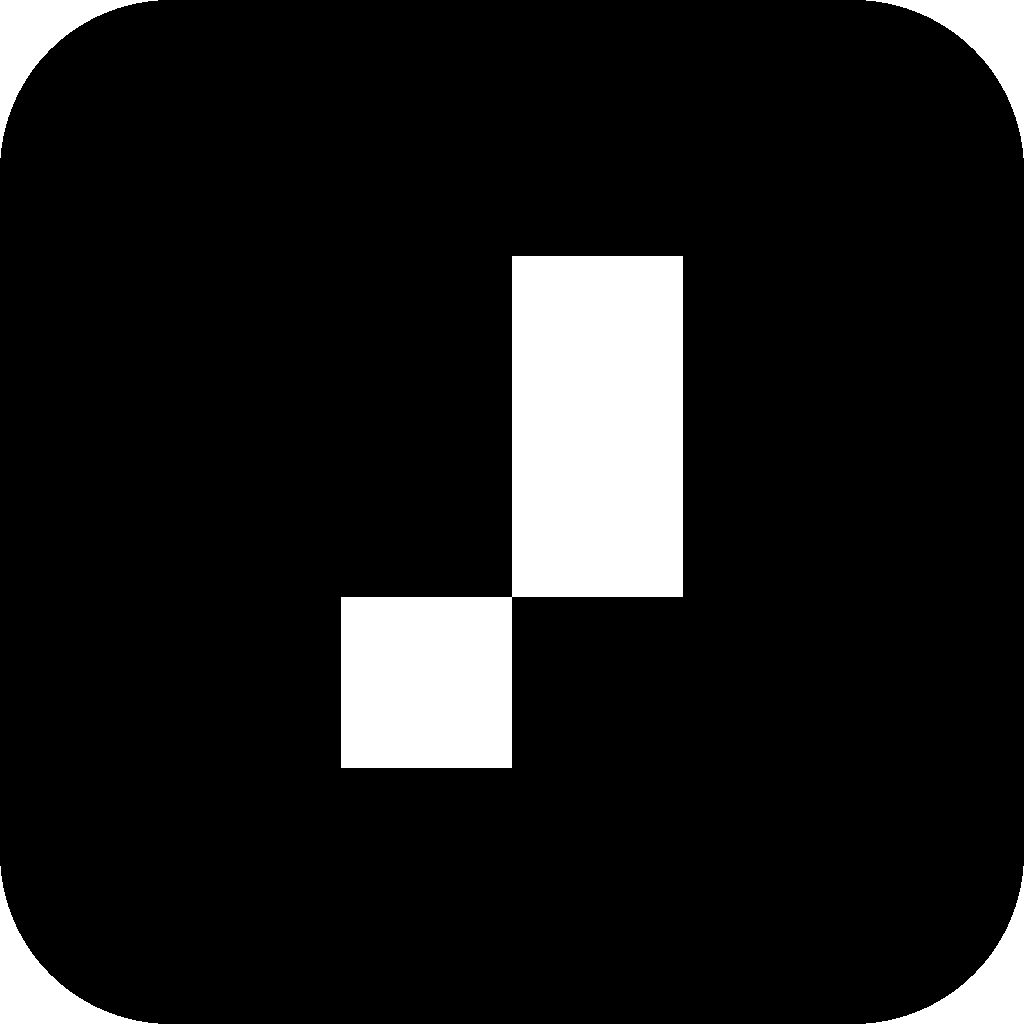
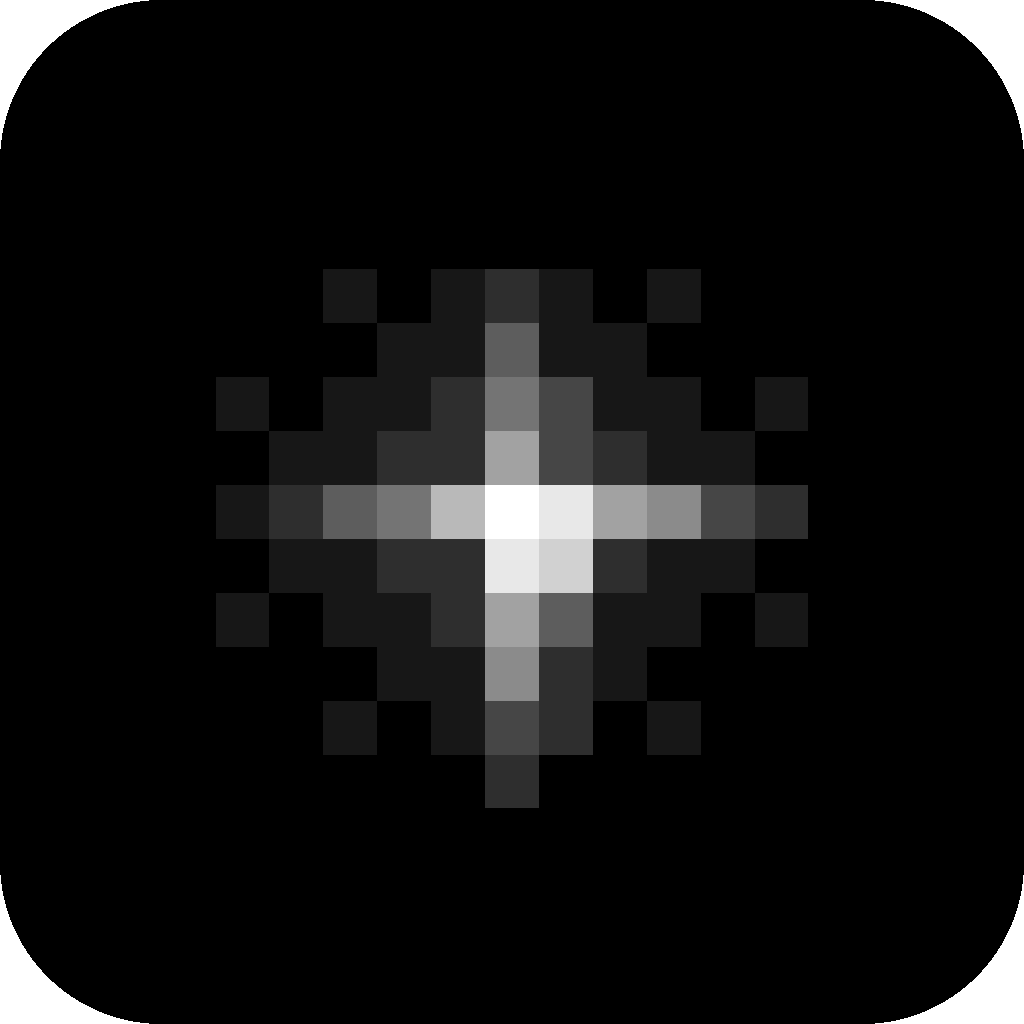
Icône du programme et écran de démarrage : l'étoile de l'orbe remplace le J

diff --git a/internal/ajean/sys_brand_icon.go b/internal/ajean/sys_brand_icon.go
@@ -2,8 +2,9 @@ package ajean
 
 // sys_brand_icon.go — l'icône de la marque AJEAN, rendue à la volée.
 //
-// RÉPLIQUE EXACTE du favicon de l'UI web : carré à coins arrondis NOIR + « j »
-// blanc (rects (6,3) (6,5) (4,7) sur une grille 12x12). Une seule source pour
+// RÉPLIQUE EXACTE du favicon de l'UI web : carré à coins arrondis NOIR + l'étoile
+// de repos de l'orbe en blanc (grille 19x19, niveaux de gris tramés, même dessin
+// que drawStar dans ui/src/js/26-spirit.js et que le logo). Une seule source pour
 // tous les usages — zone de notification Windows, barre de menus macOS, icône du
 // .exe — pour qu'ils ne puissent plus diverger comme quand le favicon est passé
 // au noir en laissant les icônes système en bleu.
@@ -27,14 +28,37 @@ var (
 	brandClear = color.RGBA{0, 0, 0, 0}
 )
 
-// glyphRects : les trois rectangles blancs du « j », en unités de la grille 12.
-var glyphRects = [][4]float64{{6, 3, 2, 2}, {6, 5, 2, 2}, {4, 7, 2, 2}}
+// starGrid : l'étoile de repos de l'orbe, intensité 0-255 par pixel (19x19).
+var starGrid = [19][19]uint8{
+	{0, 0, 0, 0, 0, 0, 0, 0, 0, 0, 0, 0, 0, 0, 0, 0, 0, 0, 0},
+	{0, 0, 0, 0, 0, 0, 0, 0, 0, 0, 0, 0, 0, 0, 0, 0, 0, 0, 0},
+	{0, 0, 0, 0, 0, 0, 0, 0, 0, 0, 0, 0, 0, 0, 0, 0, 0, 0, 0},
+	{0, 0, 0, 0, 0, 0, 0, 0, 0, 0, 0, 0, 0, 0, 0, 0, 0, 0, 0},
+	{0, 0, 0, 0, 0, 0, 0, 0, 0, 0, 0, 0, 0, 0, 0, 0, 0, 0, 0},
+	{0, 0, 0, 0, 0, 0, 23, 0, 23, 46, 23, 0, 23, 0, 0, 0, 0, 0, 0},
+	{0, 0, 0, 0, 0, 0, 0, 23, 23, 93, 23, 23, 0, 0, 0, 0, 0, 0, 0},
+	{0, 0, 0, 0, 23, 0, 23, 23, 46, 116, 70, 23, 23, 0, 23, 0, 0, 0, 0},
+	{0, 0, 0, 0, 0, 23, 23, 46, 46, 162, 70, 46, 23, 23, 0, 0, 0, 0, 0},
+	{0, 0, 0, 0, 23, 46, 93, 116, 185, 255, 232, 162, 139, 70, 46, 0, 0, 0, 0},
+	{0, 0, 0, 0, 0, 23, 23, 46, 46, 232, 209, 46, 23, 23, 0, 0, 0, 0, 0},
+	{0, 0, 0, 0, 23, 0, 23, 23, 46, 162, 93, 23, 23, 0, 23, 0, 0, 0, 0},
+	{0, 0, 0, 0, 0, 0, 0, 23, 23, 139, 46, 23, 0, 0, 0, 0, 0, 0, 0},
+	{0, 0, 0, 0, 0, 0, 23, 0, 23, 70, 46, 0, 23, 0, 0, 0, 0, 0, 0},
+	{0, 0, 0, 0, 0, 0, 0, 0, 0, 46, 0, 0, 0, 0, 0, 0, 0, 0, 0},
+	{0, 0, 0, 0, 0, 0, 0, 0, 0, 0, 0, 0, 0, 0, 0, 0, 0, 0, 0},
+	{0, 0, 0, 0, 0, 0, 0, 0, 0, 0, 0, 0, 0, 0, 0, 0, 0, 0, 0},
+	{0, 0, 0, 0, 0, 0, 0, 0, 0, 0, 0, 0, 0, 0, 0, 0, 0, 0, 0},
+	{0, 0, 0, 0, 0, 0, 0, 0, 0, 0, 0, 0, 0, 0, 0, 0, 0, 0, 0},
+}
 
-// brandIconImage dessine l'icône à la taille n. bg peint le carré arrondi, fg le
-// « j ». Les deux peuvent être transparents : c'est ce qui produit l'icône
-// « template » de macOS.
+const starN = 19
+
+// brandIconImage dessine l'icône à la taille n. bg peint le carré arrondi, fg
+// l'étoile (mélangé selon son intensité). Les deux peuvent être transparents :
+// c'est ce qui produit l'icône « template » de macOS.
 func brandIconImage(n int, bg, fg color.RGBA) *image.RGBA {
-	const r = 2.0 // rayon des coins, en unités de la grille 12
+	const r = 3.0 // rayon des coins, en unités de la grille 19
+	const g = float64(starN)
 	outside := func(gx, gy float64) bool {
 		corner := func(cx, cy float64) bool {
 			dx, dy := gx-cx, gy-cy
@@ -43,17 +67,18 @@ func brandIconImage(n int, bg, fg color.RGBA) *image.RGBA {
 		switch {
 		case gx < r && gy < r:
 			return corner(r, r)
-		case gx > 12-r && gy < r:
-			return corner(12-r, r)
-		case gx < r && gy > 12-r:
-			return corner(r, 12-r)
-		case gx > 12-r && gy > 12-r:
-			return corner(12-r, 12-r)
+		case gx > g-r && gy < r:
+			return corner(g-r, r)
+		case gx < r && gy > g-r:
+			return corner(r, g-r)
+		case gx > g-r && gy > g-r:
+			return corner(g-r, g-r)
 		}
 		return false
 	}
+	mix := func(a, b uint8, t float64) uint8 { return uint8(float64(a) + (float64(b)-float64(a))*t + .5) }
 	img := image.NewRGBA(image.Rect(0, 0, n, n))
-	scale := float64(n) / 12
+	scale := float64(n) / g
 	for y := 0; y < n; y++ {
 		for x := 0; x < n; x++ {
 			gx := (float64(x) + 0.5) / scale
@@ -62,13 +87,8 @@ func brandIconImage(n int, bg, fg color.RGBA) *image.RGBA {
 				img.Set(x, y, brandClear)
 				continue
 			}
-			c := bg
-			for _, rc := range glyphRects {
-				if gx >= rc[0] && gx < rc[0]+rc[2] && gy >= rc[1] && gy < rc[1]+rc[3] {
-					c = fg
-				}
-			}
-			img.Set(x, y, c)
+			v := float64(starGrid[int(gy)][int(gx)]) / 255
+			img.Set(x, y, color.RGBA{mix(bg.R, fg.R, v), mix(bg.G, fg.G, v), mix(bg.B, fg.B, v), mix(bg.A, fg.A, v)})
 		}
 	}
 	return img
@@ -80,13 +100,13 @@ func encodePNG(img *image.RGBA) []byte {
 	return buf.Bytes()
 }
 
-// BrandIconPNG rend l'icône de marque (noir + « j » blanc) en PNG de n pixels.
+// BrandIconPNG rend l'icône de marque (noir + étoile blanche) en PNG de n pixels.
 // Exporté pour le générateur d'icône du .exe (tools/gen-icon).
 func BrandIconPNG(n int) []byte { return encodePNG(brandIconImage(n, brandBlack, brandWhite)) }
 
 // brandTemplatePNG rend la variante « template » attendue par macOS : seule la
 // couche alpha compte, le système colore la forme selon le thème de la barre de
-// menus. Le « j » est donc DÉCOUPÉ (transparent) dans un carré opaque, sans quoi
+// menus. L'étoile est donc DÉCOUPÉE (transparente) dans un carré opaque, sans quoi
 // une icône entièrement noire disparaît sur une barre de menus sombre.
 //
 // Utilisée par sys_tray_darwin.go — un fichier que seule une compilation avec

diff --git a/internal/ajean/sys_splash_windows.go b/internal/ajean/sys_splash_windows.go
@@ -94,7 +94,7 @@ type wndClassExW struct {
 }
 
 const (
-	// Fond noir + « j » blanc : même marque que le favicon et que les icônes
+	// Fond noir + étoile blanche : même marque que le favicon et que les icônes
 	// système (voir sys_brand_icon.go). L'écran de démarrage restait bleu.
 	colBrand = 0x00000000 // COLORREF = 0x00BBGGRR
 	colWhite = 0x00FFFFFF
@@ -220,22 +220,23 @@ func paintSplash(hdc uintptr) {
 	pFillRect.Call(hdc, uintptr(unsafe.Pointer(&full)), bg)
 	pDeleteObject.Call(bg)
 
-	// Logo « j » blanc — mêmes rectangles que l'icône et le favicon
-	// (glyphRects, sys_brand_icon.go), mis à l'échelle.
-	white, _, _ := pCreateSolidBrush.Call(colWhite)
-	const logo = 58
+	// Logo : l'étoile de l'orbe (starGrid, sys_brand_icon.go), un carré gris
+	// par pixel de la grille, de l'intensité du pixel.
+	const logo = 57 // 19 x 3 px
 	ox, oy := int32(40), int32((splashH-logo)/2)
-	scale := float64(logo) / 12
-	for _, rc := range glyphRects {
-		r := rect{
-			left:   ox + int32(rc[0]*scale),
-			top:    oy + int32(rc[1]*scale),
-			right:  ox + int32((rc[0]+rc[2])*scale),
-			bottom: oy + int32((rc[1]+rc[3])*scale),
+	const cell = int32(logo / starN)
+	for gy := 0; gy < starN; gy++ {
+		for gx := 0; gx < starN; gx++ {
+			v := uint32(starGrid[gy][gx])
+			if v == 0 {
+				continue
+			}
+			br, _, _ := pCreateSolidBrush.Call(uintptr(v | v<<8 | v<<16))
+			r := rect{left: ox + int32(gx)*cell, top: oy + int32(gy)*cell, right: ox + int32(gx+1)*cell, bottom: oy + int32(gy+1)*cell}
+			pFillRect.Call(hdc, uintptr(unsafe.Pointer(&r)), br)
+			pDeleteObject.Call(br)
 		}
-		pFillRect.Call(hdc, uintptr(unsafe.Pointer(&r)), white)
 	}
-	pDeleteObject.Call(white)
 
 	// Textes (blanc, fond transparent).
 	const transparent = 1
